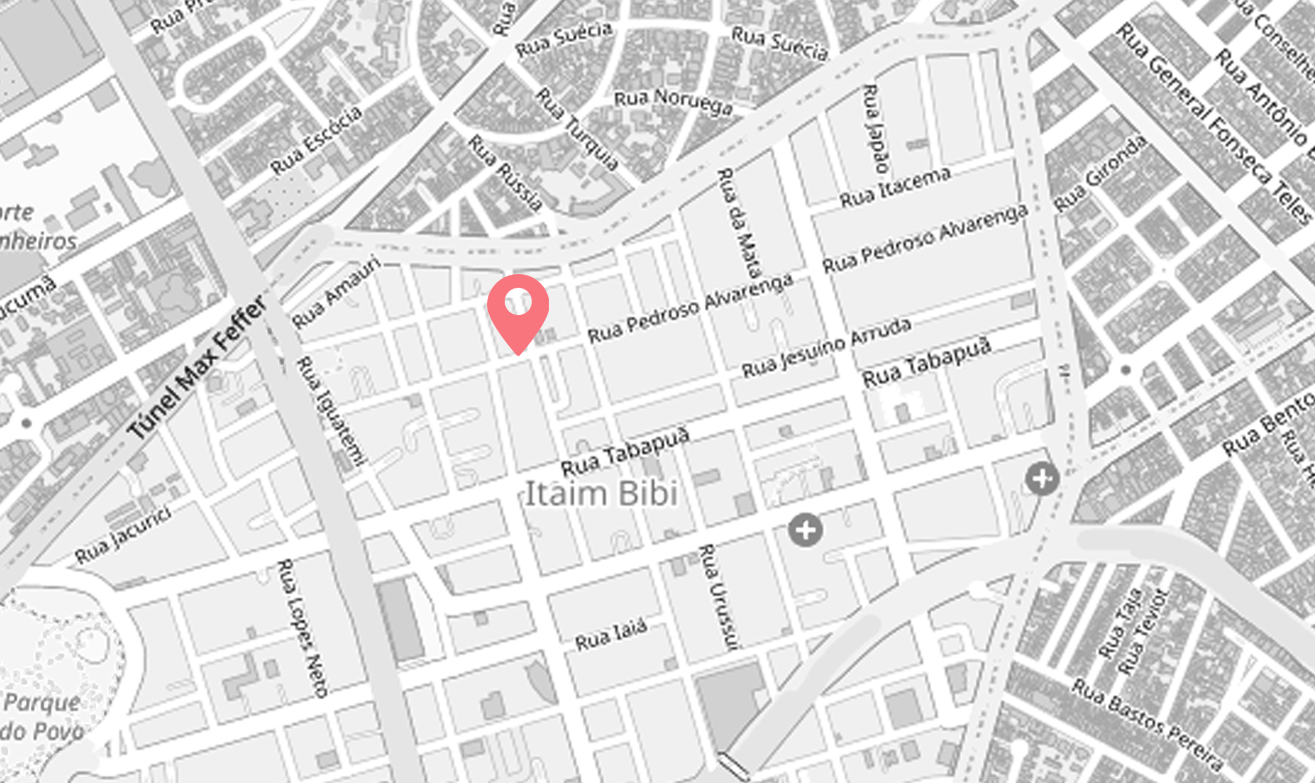
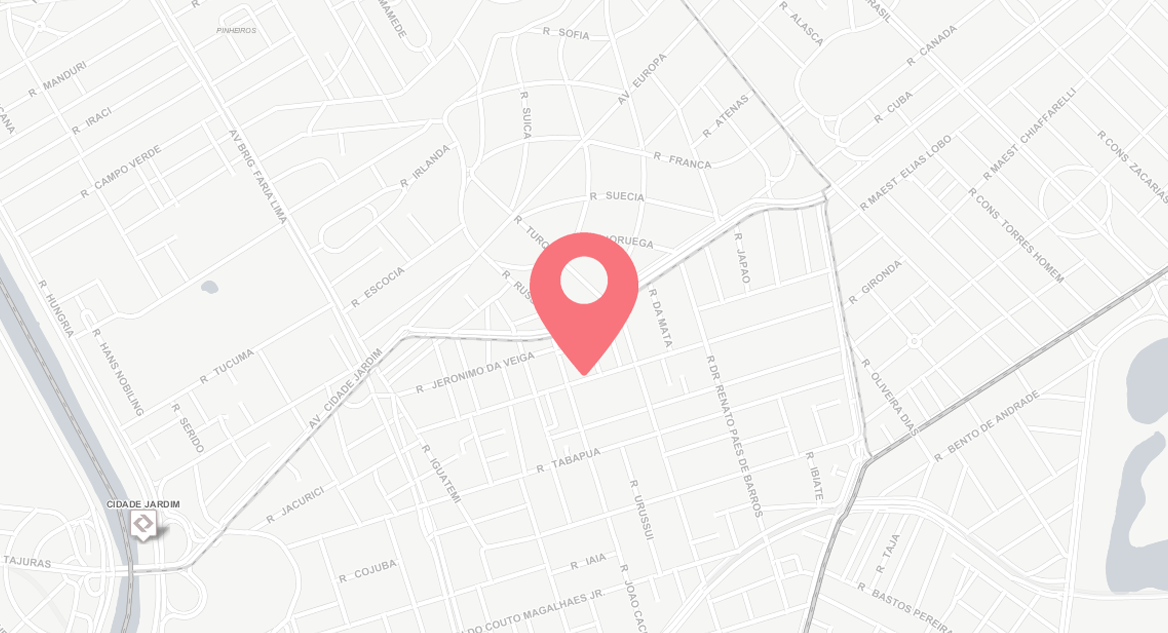
commit criando o modal-mapa

diff --git a/src/app/acesso-aberto/pages/contato/contato.component.html b/src/app/acesso-aberto/pages/contato/contato.component.html
@@ -1,25 +1,34 @@
 <main id="contato">
-  <div class="titulo1">
-    <div>
-      <h3>Respostas em até 24h</h3>
-      <h1>nosso contato<span class="cor-p1">.</span></h1>
-    </div>
-  </div>
-
+  <h1 class="titulo1">Nosso contato</h1>
   <div class="contato-container">
     <section class="contato-dados" aria-label="Endereço">
-      <h2>Fale com nossa equipe</h2>
+      <h2>Fale conosco</h2>
       <div>
         <div class="localizacao">
-          <img src="../../../../assets/img/contato/localizacao.png" width="25px">
+          <img
+            src="../../../../assets/img/contato/localizacao.png"
+            width="25px"
+          />
           <p>Rua Pedroso Alvarenga, 55012 -</p>
         </div>
         <p class="contato-espaço">Itaim Bibi, São Paulo - SP, 4531012</p>
       </div>
       <address class="contato-meios">
-        <div class="e-mail"><img src="../../../../assets/img/contato/email.png" width="35px"><a href="mailto:atendimento@donna.com.br">atendimento@donna.com.br</a></div>
-        <div class="telefone"><img src="../../../../assets/img/contato/telefone.png" width="25px"><a href="tel:+55114000-0000">+55 11 4000-0000</a></div>
-        <a  class="contato-espaço" href="tel:+551190000-0000">+55 11 90000-0000</a>
+        <div class="e-mail">
+          <img src="../../../../assets/img/contato/email.png" width="30px" /><a
+            href="mailto:atendimento@donna.com.br"
+            >atendimento@donna.com.br</a
+          >
+        </div>
+        <div class="telefone">
+          <img
+            src="../../../../assets/img/contato/telefone.png"
+            width="25px"
+          /><a href="tel:+55114000-0000">+55 11 4000-0000</a>
+        </div>
+        <a class="contato-espaço" href="tel:+551190000-0000"
+          >+55 11 90000-0000</a
+        >
       </address>
     </section>
 
@@ -35,7 +44,7 @@
             type="text"
             id="telefone"
             name="telefone"
-            placeholder="(11) 9999-9999"
+            placeholder="(11) 99999-9999"
           />
         </div>
         <div class="item-1">
@@ -56,34 +65,42 @@
             placeholder="O que você precisa?"
           ></textarea>
         </div>
-        <button>Enviar Mensagem</button>
       </form>
+      <button>Enviar</button>
     </section>
   </div>
-</main>
 
-<article>
-  <h1>endereço<span class="cor-p1">.</span></h1>
+  <section class="endereco">
+    <h1>Endereço</h1>
+    <div>
 
-  <div class="endereco">
-    <iframe src="https://www.google.com/maps/embed?pb=!1m18!1m12!1m3!1d2585.634720968165!2d-46.67846870415962!3d-23.581380760615794!2m3!1f0!2f0!3f0!3m2!1i1024!2i768!4f13.1!3m3!1m2!1s0x94ce576765cb4531%3A0x45edc014cfa38b08!2sR.%20Pedroso%20Alvarenga%20-%20Itaim%20Bibi%2C%20S%C3%A3o%20Paulo%20-%20SP!5e0!3m2!1spt-PT!2sbr!4v1687203501262!5m2!1spt-PT!2sbr" width="500" height="450" style="border:0;" allowfullscreen="" loading="lazy" referrerpolicy="no-referrer-when-downgrade"></iframe>
-    <div class="endereco-texto">
-      <h3>São Paulo</h3>
-      <div class="texto">
-        <p>Rua Pedroso Alvarenga, 55012</p>
-        <p>Itaim Bibi - SP</p>
-      </div>
-      <div class="texto">
-        <a href="mailto:atendimento@donna.com.br">atendimento@donna.com.br</a><br>
-        <a href="tel:+551190000-0000">+55 11 90000-0000</a>
-      </div>
-      <div class="icone-texto">
-        <div class="icone">
-          <img src="../../../../assets/img/contato/relogio.png" width="30px" alt="" />
-          <p>Segunda à sexta das 9h às 21h</p>
+        <a>
+          <img src="../../../../assets/img/contato/mapa.png" width="500px" height="600px"></a>
+
+
+      <div class="endereco-texto">
+        <h3>São Paulo</h3>
+        <div class="texto">
+          <p>Rua Pedroso Alvarenga, 55012</p>
+          <p>Itaim Bibi - SP</p>
         </div>
-        <p class="texto-p">Sábado das 8h às 19h</p>
+        <div class="texto">
+          <a href="mailto:atendimento@donna.com.br">atendimento@donna.com.br</a
+          ><br />
+          <a href="tel:+551190000-0000">+55 11 90000-0000</a>
+        </div>
+        <div class="icone-texto">
+          <div class="icone">
+            <img
+              src="../../../../assets/img/contato/relogio.png"
+              width="30px"
+              alt=""
+            />
+            <p>Segunda à sexta das 9h às 21h</p>
+          </div>
+          <p class="texto-p">Sábado das 8h às 19h</p>
+        </div>
       </div>
     </div>
-  </div>
-</article>
+  </section>
+</main>

diff --git a/src/app/acesso-aberto/pages/contato/contato.component.scss b/src/app/acesso-aberto/pages/contato/contato.component.scss
@@ -1,6 +1,6 @@
 @import "../../../../styles.scss";
 
-main, article {
+main {
   @include padding-grid(100px, 200px, 100px, 200px);
   color: #212529;
   font-family: "Roboto", serif;
@@ -8,11 +8,7 @@ main, article {
 }
 
 #contato {
-  background: linear-gradient(#000000 600px,#f0f0f0 0px);
-}
-
-article {
-  background-color: #f0f0f0;
+  background: linear-gradient(#000000 520px,#f0f0f0 0px);
 }
 
 .contato {
@@ -24,11 +20,8 @@ article {
 
 .titulo1 {
   color: #b8b8b8;
-}
-
-.titulo1 h1 {
   font-size: 60px;
-  padding: 30px 0px 60px 0px;
+  padding: 0px 0px 60px 0px;
 }
 
 .contato-container {
@@ -37,12 +30,11 @@ article {
   padding: 0;
   width: 100%;
   justify-content: center;
-
 }
 
 .contato-container  .contato-dados,
 .contato-formulario {
-  padding: 60px;
+  padding: 35px;
   box-shadow: 0 1px 2px rgba(0, 0, 0, 0.1);
   place-items: center;
 }
@@ -51,12 +43,12 @@ article {
   border-radius: 20px 0 0 20px;
   background:#ecc0c3
     bottom 20px left 20px;
-  height: 642px;
-  width: 500px;
+  height: 570px;
+  width: 384px;
 }
 
 .contato-container  .contato-dados h2 {
-  margin-bottom: 60px;
+  margin: 0px 0px 45px 0px;
 }
 
 .contato-container .contato-dados .localizacao {
@@ -91,14 +83,11 @@ article {
   margin-bottom: 45px;
 }
 
-
-
-
-.contato-container  .contato-formulario {
+.contato-container .contato-formulario {
   border-radius: 0 20px 20px 0;
   background: #ffffff bottom 20px right 20px;
-  height: 642px;
-  width: 750px;
+  height: 570px;
+  width: 576px;
 }
 
 .contato-container .contato-formulario .form {
@@ -109,7 +98,7 @@ article {
 
 .contato-container .contato-formulario .form label {
   display: block;
-  margin-bottom: 4px;
+  margin-left: 12px;
 }
 
 .contato-container .contato-formulario .form .item-1 {
@@ -125,6 +114,7 @@ article {
   border-radius: 20px;
   width: 100%;
   box-sizing: border-box;
+  resize: none;
 }
 
 .contato-container .contato-formulario .form input[type="text"]:focus,
@@ -136,33 +126,34 @@ article {
   box-shadow: 0 0 0 2px #ecc0c3;
 }
 
-.contato-container .contato-formulario .form button{
+.contato-container .contato-formulario button {
   display: inline-block;
-  padding: 16px 32px;
+  margin:20px 0px 0px 178px;
+  padding: 12px;
   background: linear-gradient(#f6bfc4, #acb7cf);
   border-radius: 20px;
   box-shadow: 0 1px 2px rgba(0, 0, 0, 0.1);
   font: 600 1.125rem/1.35;
-  max-width: max-content;
+  width: 150px;
   border: none;
   cursor: pointer;
 }
 
-.contato-container .contato-formulario .form button:hover {
+.contato-container .contato-formulario button:hover {
   background-color: #ffffff;
   transition: 0.5s;
   opacity:0.7;
 }
 
-article h1 {
-  padding-bottom: 60px;
-  font-size: 60px;
-}
-
 .endereco {
   display: flex;
   flex-direction: column;
-  padding-left: 126.5px;
+  background-color: #f0f0f0;
+}
+
+.endereco h1 {
+  padding: 100px 0px 60px 0px;
+  font-size: 60px;
 }
 
 .endereco iframe {
@@ -173,13 +164,6 @@ border-radius: 20px 20px 0px 0px;
   background-color: #ffffff;
   width: 500px;
   border-radius: 0px 0px 20px 20px;
-}
-
-.endereco .endereco-texto h3 {
-  padding: 45px 0px 30px 0px;
-}
-
-.endereco .endereco-texto {
   padding: 0px 35px 35px 35px;
 }
 

diff --git a/src/app/app.module.ts b/src/app/app.module.ts
@@ -22,6 +22,7 @@ import { NgbAccordionModule, NgbModule } from '@ng-bootstrap/ng-bootstrap';
 import { AppRoutingModule } from './app-routing.module';
 import { HomeFechadaComponent } from './acesso-fechado/pages/home-fechada/home-fechada.component';
 import { AccordionsComponent } from './acesso-aberto/components/accordions/accordions.component';
+import { ModalMapaComponent } from './acesso-aberto/components/modal-mapa/modal-mapa.component';
 
 @NgModule({
   declarations: [
@@ -42,7 +43,8 @@ import { AccordionsComponent } from './acesso-aberto/components/accordions/accor
     ProfissionaisComponent,
     BackgroundPretoComponent,
     HomeFechadaComponent,
-    AccordionsComponent
+    AccordionsComponent,
+    ModalMapaComponent
   ],
   imports: [
     BrowserModule,

diff --git a/src/app/acesso-aberto/components/modal-mapa/modal-mapa.component.spec.ts b/src/app/acesso-aberto/components/modal-mapa/modal-mapa.component.spec.ts
@@ -1,0 +1,21 @@
+import { ComponentFixture, TestBed } from '@angular/core/testing';
+
+import { ModalMapaComponent } from './modal-mapa.component';
+
+describe('ModalMapaComponent', () => {
+  let component: ModalMapaComponent;
+  let fixture: ComponentFixture<ModalMapaComponent>;
+
+  beforeEach(() => {
+    TestBed.configureTestingModule({
+      declarations: [ModalMapaComponent]
+    });
+    fixture = TestBed.createComponent(ModalMapaComponent);
+    component = fixture.componentInstance;
+    fixture.detectChanges();
+  });
+
+  it('should create', () => {
+    expect(component).toBeTruthy();
+  });
+});

diff --git a/src/app/acesso-aberto/components/modal-mapa/modal-mapa.component.ts b/src/app/acesso-aberto/components/modal-mapa/modal-mapa.component.ts
@@ -1,0 +1,10 @@
+import { Component } from '@angular/core';
+
+@Component({
+  selector: 'app-modal-mapa',
+  templateUrl: './modal-mapa.component.html',
+  styleUrls: ['./modal-mapa.component.scss']
+})
+export class ModalMapaComponent {
+
+}

diff --git a/src/app/acesso-aberto/pages/contato/contato.component.ts b/src/app/acesso-aberto/pages/contato/contato.component.ts
@@ -1,10 +1,12 @@
 import { Component } from '@angular/core';
 
+
 @Component({
   selector: 'app-contato',
   templateUrl: './contato.component.html',
   styleUrls: ['./contato.component.scss']
 })
 export class ContatoComponent {
+
 
 }

diff --git a/src/app/acesso-aberto/components/modal-mapa/modal-mapa.component.html b/src/app/acesso-aberto/components/modal-mapa/modal-mapa.component.html
@@ -1,0 +1,1 @@
+<p>modal-mapa works!</p>
